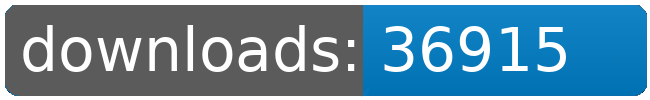
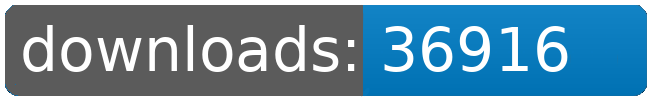
dl log written

Changed region(s): [[0.8, 0.42, 0.8923, 0.72], [0.8308, 0.24, 0.8923, 0.36]]

diff --git a/README.md b/README.md
@@ -43,8 +43,8 @@
 		<td>5466</td>
 		<td>5483</td>
 		<td>5497</td>
-		<td>5501</td>
-		<td>+ 4</td>
+		<td>5502</td>
+		<td>+ 5</td>
 	</tr>
 	<tr>
 		<td>Jaws</td>
@@ -109,8 +109,8 @@
 		<td></td>
 		<td></td>
 		<td></td>
-		<td>36915</td>
-		<td>19</td>
+		<td>36916</td>
+		<td>20</td>
 	</tr>
 </table>
 </sub></sup>
@@ -135,8 +135,8 @@
 		<td>5466</td>
 		<td>5483</td>
 		<td>5497</td>
-		<td>5501</td>
-		<td>+ 4</td>
+		<td>5502</td>
+		<td>+ 5</td>
 	</tr>
 	<tr>
 		<td>Louise.Conglomerate.Shipyards</td>
@@ -223,8 +223,8 @@
 		<td></td>
 		<td></td>
 		<td></td>
-		<td>36915</td>
-		<td>19</td>
+		<td>36916</td>
+		<td>20</td>
 	</tr>
 </table>
 </sub></sup>
